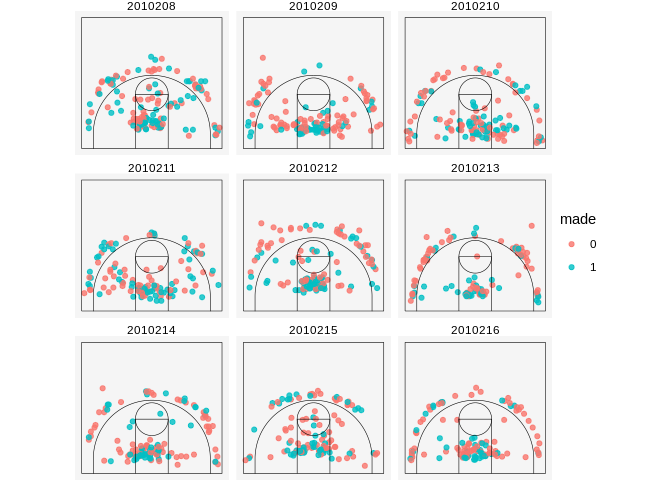
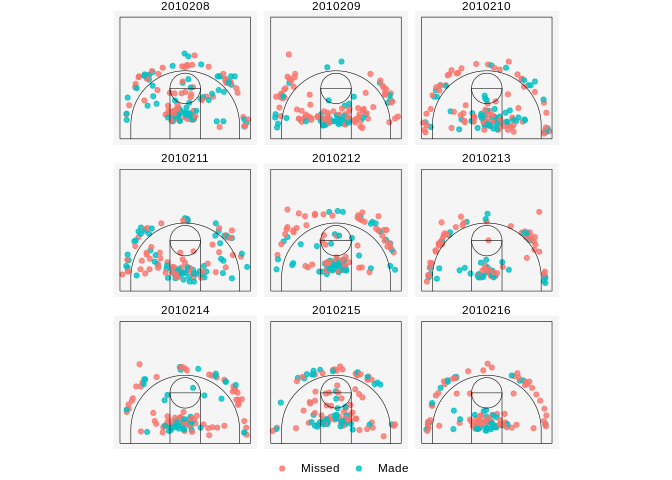
Changed to version 0.1.0 and edited DESCRIPTION and README

Changed region(s): [[0.125, 0.0, 0.9062, 1.0], [0.8438, 0.5, 0.875, 0.5625], [0.375, 0.0938, 0.4375, 0.125]]

diff --git a/README.md b/README.md
@@ -2,7 +2,7 @@
 rfeb
 ====
 
-rfeb is a set of tools for scraping and analyzing basketball data from Spain's FEB leagues.
+rfeb provides a set of tools for scraping and analyzing basketball data from Spain's FEB leagues.
 
 Installation
 ------------
@@ -12,15 +12,16 @@ Installation
 devtools::install_github("solmos/rfeb")
 ```
 
-Example
--------
+Examples
+--------
 
 ``` r
 library(rfeb)
 library(ggplot2)
 game_ids <- 2010208:2010216
 shots <- extract_shots(game_ids)
-plot_shotchart(shots, color = made) + facet_wrap(~game)
+plot_shotchart(shots, color = made) +
+    facet_wrap(~game_id)
 ```
 
 ![](README_files/figure-markdown_github/unnamed-chunk-2-1.png)
